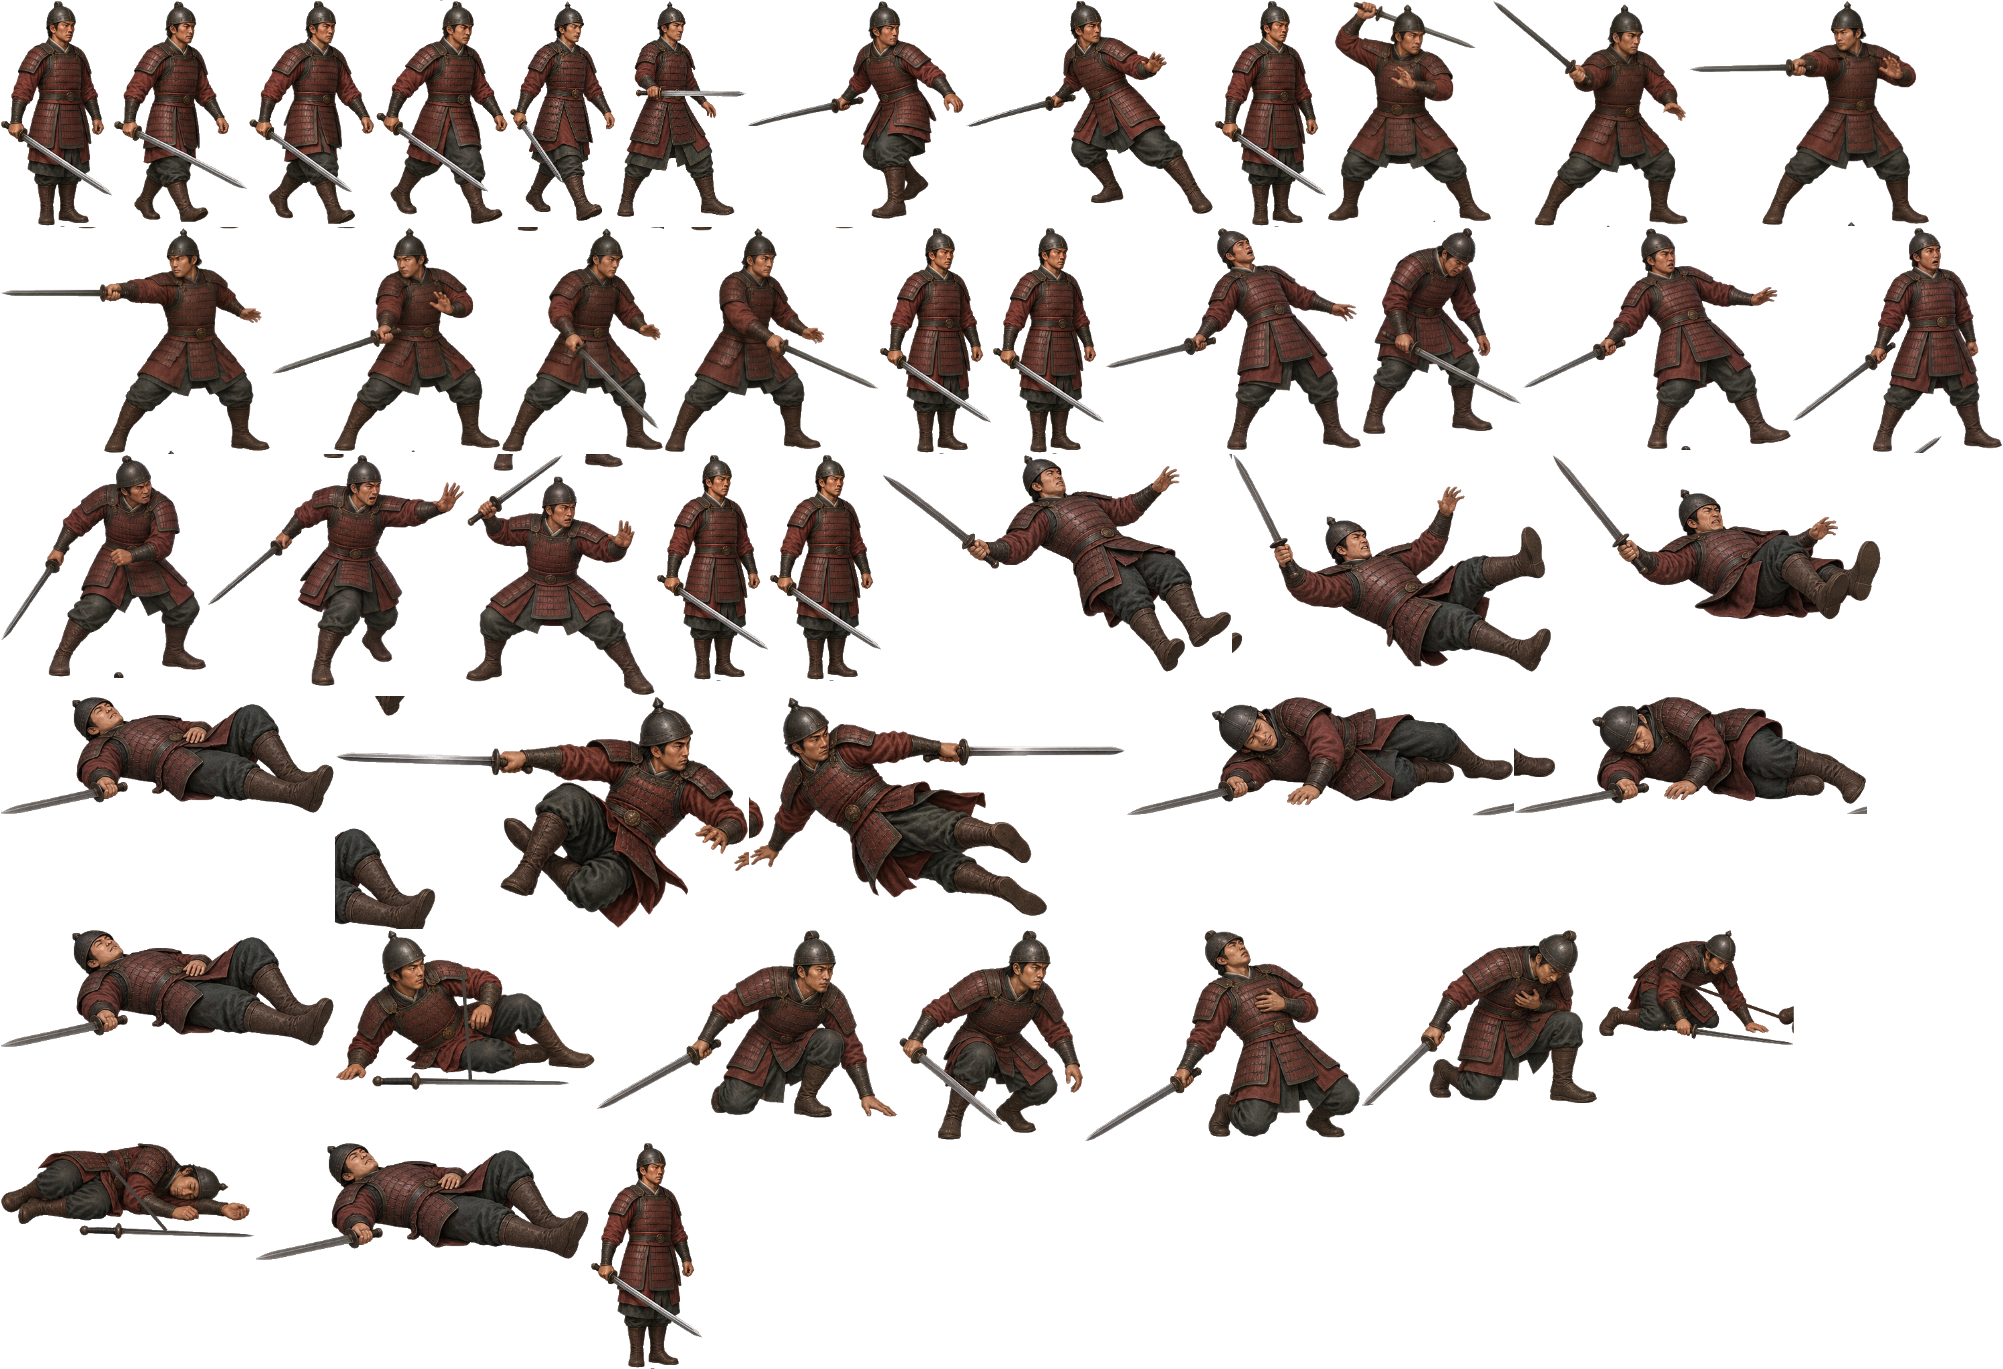
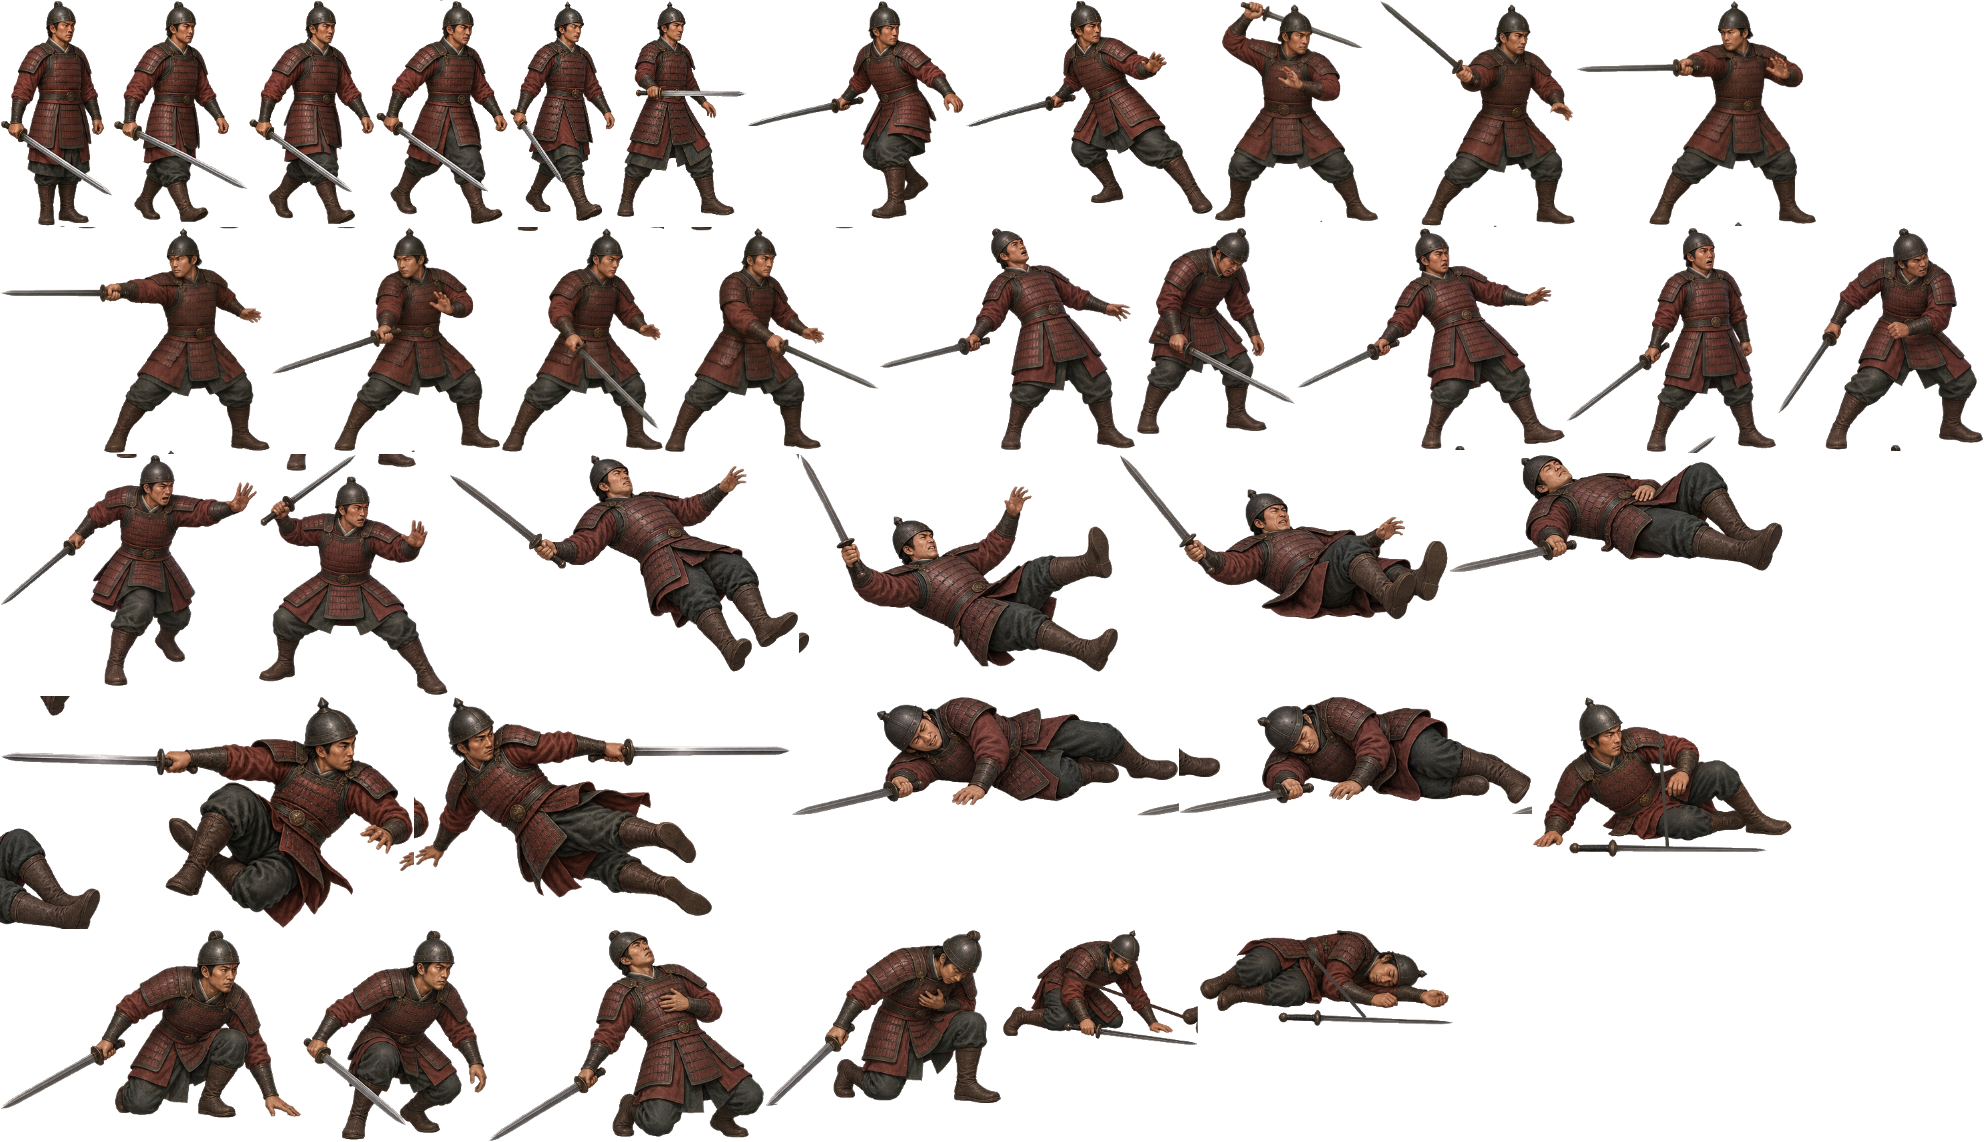
Loop tick: IN_PROGRESS CMR-06B - every soldier state/attack/clock bound + exercised (12 tests, 2 real bugs fixed: unknown-attack fallback, shared bookend atlas rects) (verified)

diff --git a/test/game/motion-soldier.test.ts b/test/game/motion-soldier.test.ts
@@ -1,0 +1,173 @@
+import { describe, expect, it } from 'vitest'
+import { attackById } from '../../src/core/attacks'
+import { DYING_TICKS, GETUP_TICKS, KNOCKDOWN_TICKS } from '../../src/core/constants'
+import { ENEMIES } from '../../src/core/enemies'
+import { soldierPreparedRecord, motionPackManifest, MOTION_PACKS } from '../../src/game/adapters/motion-art'
+import type { MotionArt, MotionEntity } from '../../src/game/art/motion-clips'
+import { sampleClip } from '../../src/game/art/motion-clips'
+import {
+  motionFrameForSoldier,
+  soldierClips,
+  validSoldierPack,
+} from '../../src/game/art/motion-clips-soldier'
+import { validateClipExposures, validateMotionProfile, meleeProfile } from '../../src/game/art/motion-profiles'
+
+/**
+ * CMR-06B bounded work 2: every real state/attack/clock of the Wei Soldier
+ * is bound and exercised. Every dispatched frame must exist in the prepared
+ * pack - an unknown frame would break the shared-atlas display.
+ */
+
+const meta = soldierPreparedRecord()
+const art: MotionArt = {
+  ...meta,
+  sheet: {} as CanvasImageSource,
+  actionSheet: {} as CanvasImageSource,
+  clips: soldierClips(),
+  attackBindings: { 'soldier.swing': 'swing' },
+}
+const base: MotionEntity = { state: 'idle', stateTick: 0, attackId: null, mountedOn: null }
+
+describe('soldier pack registration', () => {
+  it('the prepared record validates as a soldier pack', () => {
+    expect(validSoldierPack(meta)).toBe(true)
+    expect(meta.singlePage).toBe(true)
+    expect(Object.keys(meta.frames)).toHaveLength(45)
+    expect(MOTION_PACKS['soldier']).toBeDefined()
+  })
+
+  it('negative controls: missing frame / wrong cell / overlap fail the pack', () => {
+    const frames = { ...meta.frames }
+    delete frames['swing:4']
+    expect(validSoldierPack({ ...meta, frames })).toBe(false)
+    const bad = { ...meta.frames }
+    bad['locomotion:0'] = { ...bad['locomotion:0']!, srcW: 100, srcH: 100 }
+    expect(validSoldierPack({ ...meta, frames: bad })).toBe(false)
+    const overlap = { ...meta.frames }
+    overlap['locomotion:1'] = { ...overlap['locomotion:1']!, x: overlap['locomotion:0']!.x + 2, y: overlap['locomotion:0']!.y + 2 }
+    expect(validSoldierPack({ ...meta, frames: overlap }), 'genuinely overlapping rects fail').toBe(false)
+    expect(validSoldierPack({ ...meta, id: 'guanyu' })).toBe(false)
+    expect(validSoldierPack({ ...meta, density: 0 })).toBe(false)
+  })
+
+  it('shared guard/down bookends are byte-identical drawings (same atlas rect)', () => {
+    // An aliased bookend reuses the target drawing's trimmed rect exactly -
+    // the same atlas pixels are drawn, so the bookends can never drift.
+    const f = meta.frames as Record<string, unknown>
+    expect(f['locomotion:8'], 'locomotion guard bookend').toEqual(f['locomotion:0'])
+    expect(f['swing:0'], 'swing guard entry').toEqual(f['locomotion:0'])
+    expect(f['swing:8'], 'swing guard bookend').toEqual(f['locomotion:0'])
+    expect(f['hitstun-held:0'], 'hitstun guard entry').toEqual(f['locomotion:0'])
+    expect(f['hitstun-held:8'], 'hitstun guard bookend').toEqual(f['locomotion:0'])
+    expect(f['fall-thrown:8'], 'fall down bookend').toEqual(f['fall-thrown:3'])
+    expect(f['getup-death:3'], 'getup down bookend').toEqual(f['fall-thrown:3'])
+    expect(f['getup-death:8'], 'getup guard bookend').toEqual(f['locomotion:0'])
+  })
+})
+
+describe('soldier clips follow core timing', () => {
+  it('clip exposures are strictly ordered and durations match core data', () => {
+    expect(validateClipExposures(art.clips)).toEqual([])
+    expect(validateMotionProfile(meleeProfile('soldier'))).toEqual([])
+    const a = attackById('soldier.swing')
+    expect(art.clips.swing!.duration).toBe(a.startup + a.active + a.recover)
+    expect(ENEMIES.soldier!.hitstunTicks).toBe(18)
+    expect(art.clips.hurt!.duration).toBe(18)
+    expect(art.clips.fall!.duration).toBe(KNOCKDOWN_TICKS)
+    expect(art.clips.getup!.duration).toBe(GETUP_TICKS)
+  })
+
+  it('the manifest advertises the soldier clips and the pack loads only its page', () => {
+    const manifest = motionPackManifest('soldier')
+    expect(manifest?.requiredClips.sort()).toEqual(['flee', 'fall', 'getup', 'hurt', 'idle', 'swing', 'walk'].sort())
+    expect(manifest?.pages).toHaveLength(1)
+    expect(manifest?.display).toBe('shared-atlas')
+  })
+})
+
+describe('soldier state dispatch (every state, key ticks)', () => {
+  const frameAt = (e: Partial<MotionEntity>): string => motionFrameForSoldier(art, { ...base, ...e })
+  const allFrames = new Set(Object.keys(meta.frames))
+
+  it('idle / walk cycle / retreat', () => {
+    expect(frameAt({ state: 'idle' })).toBe('locomotion:0')
+    const cycle = [0, 4, 8, 12].map((t) => frameAt({ state: 'walk', stateTick: t }))
+    expect(cycle).toEqual(['locomotion:1', 'locomotion:2', 'locomotion:3', 'locomotion:4'])
+    expect(frameAt({ state: 'walk', stateTick: 16 }), 'loop repeats').toBe('locomotion:1')
+    expect([frameAt({ state: 'fleeing', stateTick: 0 }), frameAt({ state: 'fleeing', stateTick: 4 })])
+      .toEqual(['locomotion:6', 'locomotion:7'])
+  })
+
+  it('the visible strike matches every active tick of soldier.swing', () => {
+    const a = attackById('soldier.swing')
+    const endActive = a.startup + a.active
+    // Startup shows the guard entry then windup drawings; EVERY active tick
+    // shows an active drawing; recovery returns to guard by the last tick.
+    expect(frameAt({ state: 'attack', attackId: 'soldier.swing', stateTick: 0 }), 'attacks start from the guard pose').toBe('locomotion:0')
+    for (let t = 1; t < a.startup; t++) {
+      expect(['swing:0', 'swing:1', 'swing:2'], `startup ${t}`).toContain(frameAt({ state: 'attack', attackId: 'soldier.swing', stateTick: t }))
+    }
+    for (let t = a.startup; t < endActive; t++) {
+      expect(['swing:3', 'swing:4'], `active ${t}`).toContain(frameAt({ state: 'attack', attackId: 'soldier.swing', stateTick: t }))
+    }
+    for (let t = endActive; t < endActive + a.recover; t++) {
+      expect(['swing:5', 'swing:6', 'swing:7', 'locomotion:0'], `recover ${t}`).toContain(frameAt({ state: 'attack', attackId: 'soldier.swing', stateTick: t }))
+    }
+    // The 4-tick active window is exactly ticks 14..17 inclusive.
+    expect(a.startup).toBe(14)
+    expect(a.active).toBe(4)
+    expect(a.recover).toBe(20)
+    expect(frameAt({ state: 'attack', attackId: 'soldier.swing', stateTick: 14 })).toBe('swing:3')
+  })
+
+  it('hitstun (18 ticks), knockdown, getup', () => {
+    expect(frameAt({ state: 'hitstun', stateTick: 0 })).toBe('hitstun-held:1')
+    expect(frameAt({ state: 'hitstun', stateTick: 12 })).toBe('hitstun-held:3')
+    expect(frameAt({ state: 'hitstun', stateTick: 17 }), 'last hitstun tick returns to guard').toBe('locomotion:0')
+    expect(frameAt({ state: 'knockdown', stateTick: 0 })).toBe('fall-thrown:0')
+    expect(frameAt({ state: 'knockdown', stateTick: 12 })).toBe('fall-thrown:3')
+    expect(frameAt({ state: 'knockdown', stateTick: KNOCKDOWN_TICKS + 5 }), 'clamp, never out of range').toBe('fall-thrown:3')
+    expect(frameAt({ state: 'getup', stateTick: 0 })).toBe('fall-thrown:3')
+    expect(frameAt({ state: 'getup', stateTick: 6 })).toBe('getup-death:0')
+    expect(frameAt({ state: 'getup', stateTick: GETUP_TICKS - 1 })).toBe('locomotion:0')
+  })
+
+  it('upright held/escape and throw flight/impact', () => {
+    expect(frameAt({ state: 'grab', stateTick: 0 })).toBe('hitstun-held:4')
+    expect(frameAt({ state: 'grabbed', stateTick: 5 })).toBe('hitstun-held:5')
+    expect(frameAt({ state: 'thrown', stateTick: 0 })).toBe('fall-thrown:4')
+    expect(frameAt({ state: 'thrown', stateTick: 5 })).toBe('fall-thrown:5')
+    expect(frameAt({ state: 'thrown', stateTick: 11 })).toBe('fall-thrown:6')
+    expect(frameAt({ state: 'thrown', stateTick: 14 })).toBe('fall-thrown:7')
+    expect(frameAt({ state: 'thrown', stateTick: 99 }), 'clamp').toBe('fall-thrown:7')
+  })
+
+  it('dying and dead terminate on the drawn dead pose', () => {
+    expect(frameAt({ state: 'dying', stateTick: 0 })).toBe('getup-death:4')
+    expect(frameAt({ state: 'dying', stateTick: Math.floor(DYING_TICKS / 2) })).toBe('getup-death:5')
+    expect(frameAt({ state: 'dying', stateTick: DYING_TICKS + 10 })).toBe('getup-death:6')
+    expect(frameAt({ state: 'dead', stateTick: 0 })).toBe('getup-death:7')
+    expect(frameAt({ state: 'dead', stateTick: 900 })).toBe('getup-death:7')
+  })
+
+  it('every dispatched frame exists in the pack (no legacy fallback, no unknowns)', () => {
+    const seen = new Set<string>()
+    const push = (e: Partial<MotionEntity>) => seen.add(frameAt(e))
+    for (const state of ['idle', 'walk', 'fleeing', 'hitstun', 'knockdown', 'getup', 'grab', 'grabbed', 'thrown', 'dying', 'dead'] as const) {
+      for (const t of [0, 1, 4, 8, 14, 20, 40]) push({ state, stateTick: t })
+    }
+    for (let t = 0; t < 60; t++) push({ state: 'attack', attackId: 'soldier.swing', stateTick: t })
+    for (const frame of seen) expect(allFrames.has(frame), `frame ${frame} must exist in the pack`).toBe(true)
+    // An unknown attack stays on new art (guard), never the legacy rig.
+    expect(frameAt({ state: 'attack', attackId: 'soldier.nope', stateTick: 3 })).toBe('locomotion:0')
+  })
+
+  it('sampleClip clamps out-of-range ticks without ever returning an unknown frame', () => {
+    for (const action of ['idle', 'walk', 'flee', 'hurt', 'fall', 'getup', 'swing']) {
+      for (const t of [-5, 0, 17, 500]) {
+        const frame = sampleClip(art, action, t)
+        expect(allFrames.has(frame), `${action}@${t} -> ${frame}`).toBe(true)
+      }
+    }
+  })
+})

diff --git a/src/game/art/motion-clips-soldier.ts b/src/game/art/motion-clips-soldier.ts
@@ -63,7 +63,10 @@ export function motionFrameForSoldier(art: MotionArt, entity: MotionEntity): str
     case 'idle': return IDLE
     case 'walk': return sampleClip(art, 'walk', t)
     case 'fleeing': return sampleClip(art, 'flee', t)
-    case 'attack': return sampleClip(art, 'swing', t)
+    case 'attack': {
+      const bound = entity.attackId ? art.attackBindings?.[entity.attackId] : undefined
+      return bound && art.clips[bound] ? sampleClip(art, bound, t) : IDLE
+    }
     case 'hitstun': return sampleClip(art, 'hurt', t)
     case 'knockdown': return sampleClip(art, 'fall', t)
     case 'getup': return sampleClip(art, 'getup', t)
@@ -103,8 +106,11 @@ export function validSoldierPack(meta: SoldierPackGeometry): boolean {
       if (sw !== width * meta.density || sh !== height * meta.density) return false
       if (c.x + c.w > meta.sheet.width || c.y + c.h > meta.sheet.height) return false
       if ((c.trimX ?? 0) < 0 || (c.trimY ?? 0) < 0 || (c.trimX ?? 0) + c.w > sw || (c.trimY ?? 0) + c.h > sh) return false
-      if (rects.some((b) => c.x < b.x + b.w && c.x + c.w > b.x && c.y < b.y + b.h && c.y + c.h > b.y)) return false
-      rects.push({ x: c.x, y: c.y, w: c.w, h: c.h })
+      // Aliased bookends share their target's atlas rect (byte-identical
+      // drawings); anything else overlapping is a packing defect.
+      const shared = (b: { x: number; y: number; w: number; h: number }) => b.x === c.x && b.y === c.y && b.w === c.w && b.h === c.h
+      if (rects.some((b) => !shared(b) && c.x < b.x + b.w && c.x + c.w > b.x && c.y < b.y + b.h && c.y + c.h > b.y)) return false
+      if (!rects.some(shared)) rects.push({ x: c.x, y: c.y, w: c.w, h: c.h })
     }
   }
   return true

diff --git a/test/game/motion-runtime.test.ts b/test/game/motion-runtime.test.ts
@@ -171,10 +171,10 @@ describe('stage-scoped motion runtime', () => {
     }
     // Budgets, kept separate and never raised.
     const rep = rt.budget()
-    expect(rep.networkBytes).toBe(4_328_499 + 2_006_693)
-    expect(rep.sourceBytes).toBe(4_328_499 + 2_006_693)
+    expect(rep.networkBytes).toBe(4_328_499 + 1_786_372)
+    expect(rep.sourceBytes).toBe(4_328_499 + 1_786_372)
     expect(rep.perFighterDecoded['guanyu']).toBe(1935 * 903 * 4 + 2027 * 1055 * 4)
-    expect(rep.perFighterDecoded['soldier']).toBe(2003 * 1369 * 4)
+    expect(rep.perFighterDecoded['soldier']).toBe(1984 * 1142 * 4)
     expect(rep.perFighterDecoded['guanyu']).toBeLessThanOrEqual(CONTRACT_CAPS.decodedPerFighter)
     expect(rep.perFighterDecoded['soldier']).toBeLessThanOrEqual(CONTRACT_CAPS.decodedPerFighter)
     expect(rep.gpuBytes, 'one GPU upload per page, no display clones').toBe(rep.perFighterDecoded['guanyu']! + rep.perFighterDecoded['soldier']!)

diff --git a/src/game/adapters/motion-art.ts b/src/game/adapters/motion-art.ts
@@ -85,7 +85,7 @@ const GUANYU_PAGES: PackPage[] = [
 
 /** Wei Soldier single atlas page (CMR-06B; scripts/emit-soldier-runtime.mjs). */
 const SOLDIER_PAGES: PackPage[] = [
[2 lines of base64/hex data omitted]
 ]
 
 export const MOTION_PACKS: Record<string, MotionPackDef> = {

diff --git a/PROGRESS.md b/PROGRESS.md
@@ -22,6 +22,43 @@ history slowly crowds out the work it is supposed to support.
 
 ## Entries
 #
+### 2026-10-01 23:04 UTC - CMR-06B (attempt 1, IN_PROGRESS - every state/attack/clock bound and exercised)
+
+- Status before: CMR-06B bounded work 1 done (5c2f75f).
+- Work completed: bounded work 2 - `test/game/motion-soldier.test.ts`
+  (12 tests) binds and exercises every real soldier state/attack/clock:
+  pack validation + negative controls (missing frame/wrong cell/genuine
+  overlap/wrong id/density), shared guard/down bookends byte-identical,
+  clip timings from core data (swing = the real 14/4/20 window with the
+  visible strike on EVERY active tick 14..17, hitstun 18, knockdown/getup/
+  dying from constants), dispatch at key ticks for all 11 states
+  (idle/walk/fleeing/attack/hitstun/knockdown/getup/grab/grabbed/thrown/
+  dying/dead), clamps, and "every dispatched frame exists in the pack".
+- The suite caught TWO real bugs (both fixed): (1) the soldier dispatcher
+  hard-coded the swing clip for ANY attack id - an unknown attack showed a
+  strike instead of the defensive guard; (2) aliased bookends occupied
+  DUPLICATE atlas rects (pixel-identical but wasteful and drift-prone at
+  the rect level) - the packer now shares one rect per drawing (page
+  shrank 2003x1369 -> 1984x1142, 1,786,372 B, sha 55f3300d; validator
+  allows shared rects and still rejects genuine overlaps).
+- Files changed: src/game/art/motion-clips-soldier.ts,
+  scripts/motion-pipeline.mjs, src/game/assets/motion/soldier-prepared.json,
+  src/game/assets/motion/soldier-motion-sheet.png,
+  src/game/adapters/motion-art.ts, test/game/{motion-soldier.test.ts,
+  motion-runtime.test.ts}, TASKS.md, PROGRESS.md.
+- Verification run: lint + `tsc --noEmit` clean; motion suites 52/52
+  (soldier+runtime+pipeline); full unit
+  **821 passed | 1 failed (known G6 V-15b pin) | 6 skipped**.
+- Result: the pack is registered AND every bound state/tick is verified
+  against core timing at the unit level.
+- Status after: CMR-06B IN_PROGRESS (attempt 1).
+- Remaining work or blocker: bounded work 3-5 - browser tick/edge exercise
+  (pause/hit-stop, skipped render, interruptions, low fall/getup/KO,
+  restart, co-op/AI), captures of baseline vs new art in game (both
+  facings, Canvas/WebGL/mobile) through the CMR-05 motion-aware path, the
+  full-sequence review, and the producer handoff. No blocker.
+- Next recommended task: continue CMR-06B (browser exercise + captures).
+
 ### 2026-10-01 22:53 UTC - CMR-06B (attempt 1, IN_PROGRESS - pack registered in runtime; toolkit blank-page bug found + fixed)
 
 - Status before: CMR-06A DONE (d21181d); CMR-06B TODO.

diff --git a/TASKS.md b/TASKS.md
@@ -95,20 +95,20 @@ Selection: due producer review first, then the earliest ready CMR task; continue
 
 ### CMR-06B - Wei Soldier: integrate/review in motion
 
-- Status: IN_PROGRESS (attempt 1, started 2026-10-01 21:5x; progress 22:4x:
-  bounded work 1 DONE - the complete prepared pack is registered behind
-  `?motion=1` through the CMR-02/03 catalog: soldier-prepared.json +
-  single atlas page asset (2,006,693 B, sha 28e8aaf2, 2003x1369),
-  MOTION_PACKS.soldier with per-fighter atomic fallback and stage
-  prefetch (only catalogued packs request; packless kinds unsupported),
-  soldier clip table (core-data timings: swing 14/4/20, hitstun 18,
-  knockdown/getup/dying from constants) + state dispatch + 5x9 pack
-  validator; MotionArt gained general attackBindings (guanyu unchanged).
-  FOUND+FIXED a toolkit bug during integration: the pack page blit copied
-  box-space coords and produced BLANK atlas pages (guanyu unaffected - it
-  packs via a different tool); fixed + regression test; the soldier page
-  now carries real pixels (27.3% opaque). Motion suites 57/57; full unit
-  809|1 known G6|6. Remaining: tick/state exercise + captures (work 3-5).)
+- Status: IN_PROGRESS (attempt 1; bounded work 1-2 DONE 23:04: pack
+  registered behind `?motion=1` (catalog/clips/validator, single atlas page
+  1,786,372 B sha 55f3300d 1984x1142 after shared-rect bookends) AND every
+  state/attack/clock bound + exercised by test/game/motion-soldier.test.ts
+  (12 tests: pack validation + negative controls, shared guard/down
+  bookends byte-identical via shared atlas rects, core-data clip timings
+  (swing 14/4/20, hitstun 18), dispatch at key ticks for all 11 states,
+  visible strike on every active tick, clamps, unknown-attack fallback to
+  guard, every dispatched frame exists in the pack). Toolkit fix: aliased
+  bookends now share their target's atlas rect (page shrinks, bookends
+  cannot drift). Motion suites 52/52; full unit 821|1 known G6|6.
+  Remaining: work 3-5 - tick/edge exercise in browser, captures both
+  facings/Canvas/WebGL/mobile via the CMR-05 path, full-sequence review,
+  producer handoff.)
 - Dependency: CMR-06A DONE (earlier foundation dependencies apply transitively)
 - Specification: [CMR-06B](docs/motion-tasks/CMR-06B.md); read with [shared contract](docs/CAST_MOTION_ROLLOUT.md).
 - Acceptance: Verified atomic soldier pack, exact windows, no old-art leaks, actual isolated/mixed/interaction captures both facings/renderers; no gameplay changes.
